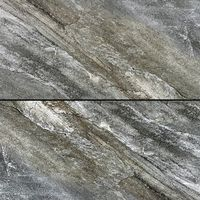
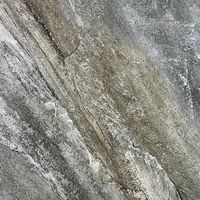
Show kotto design 7 as a single tile
Claude-Session: https://claude.ai/code/session_01C4iQ3C6y4nUemSzJUgiqzV

diff --git a/almesrati-site/src/site-data.ts b/almesrati-site/src/site-data.ts
@@ -270,7 +270,7 @@ export const designSets: DesignSet[] = [
     label: "كوطو ليبي 60×60",
     shape: "square",
     note: "سمك 14 ملم، للأرضيات والساحات الخارجية.",
-    looks: ["بيج بنقشة ترافنتينو", "رمادي حجري بعروق مائلة", "رمادي فاتح حجري", "رمادي بحصى صغير", "رمادي بحجارة كبيرة", "بيج تيرازو بحبيبات بنية", "رمادي داكن حجري بعروق مائلة (قطعتان من نفس اللون)", "بيج رمادي حجري بعروق بنية", "رمادي فاتح منقّط", "رمادي غرانيتي بخطوط حجرية مائلة", "رمادي إسمنتي ببقع فاتحة", "رمادي إسمنتي داكن", "تيرازو رمادي بحجارة رمادية وسوداء"],
+    looks: ["بيج بنقشة ترافنتينو", "رمادي حجري بعروق مائلة", "رمادي فاتح حجري", "رمادي بحصى صغير", "رمادي بحجارة كبيرة", "بيج تيرازو بحبيبات بنية", "رمادي داكن حجري بعروق مائلة", "بيج رمادي حجري بعروق بنية", "رمادي فاتح منقّط", "رمادي غرانيتي بخطوط حجرية مائلة", "رمادي إسمنتي ببقع فاتحة", "رمادي إسمنتي داكن", "تيرازو رمادي بحجارة رمادية وسوداء"],
     codes: ["059", undefined, undefined, undefined, undefined, "063", undefined, "053", "017", "038", "024", "016", "062"],
   },
   {
